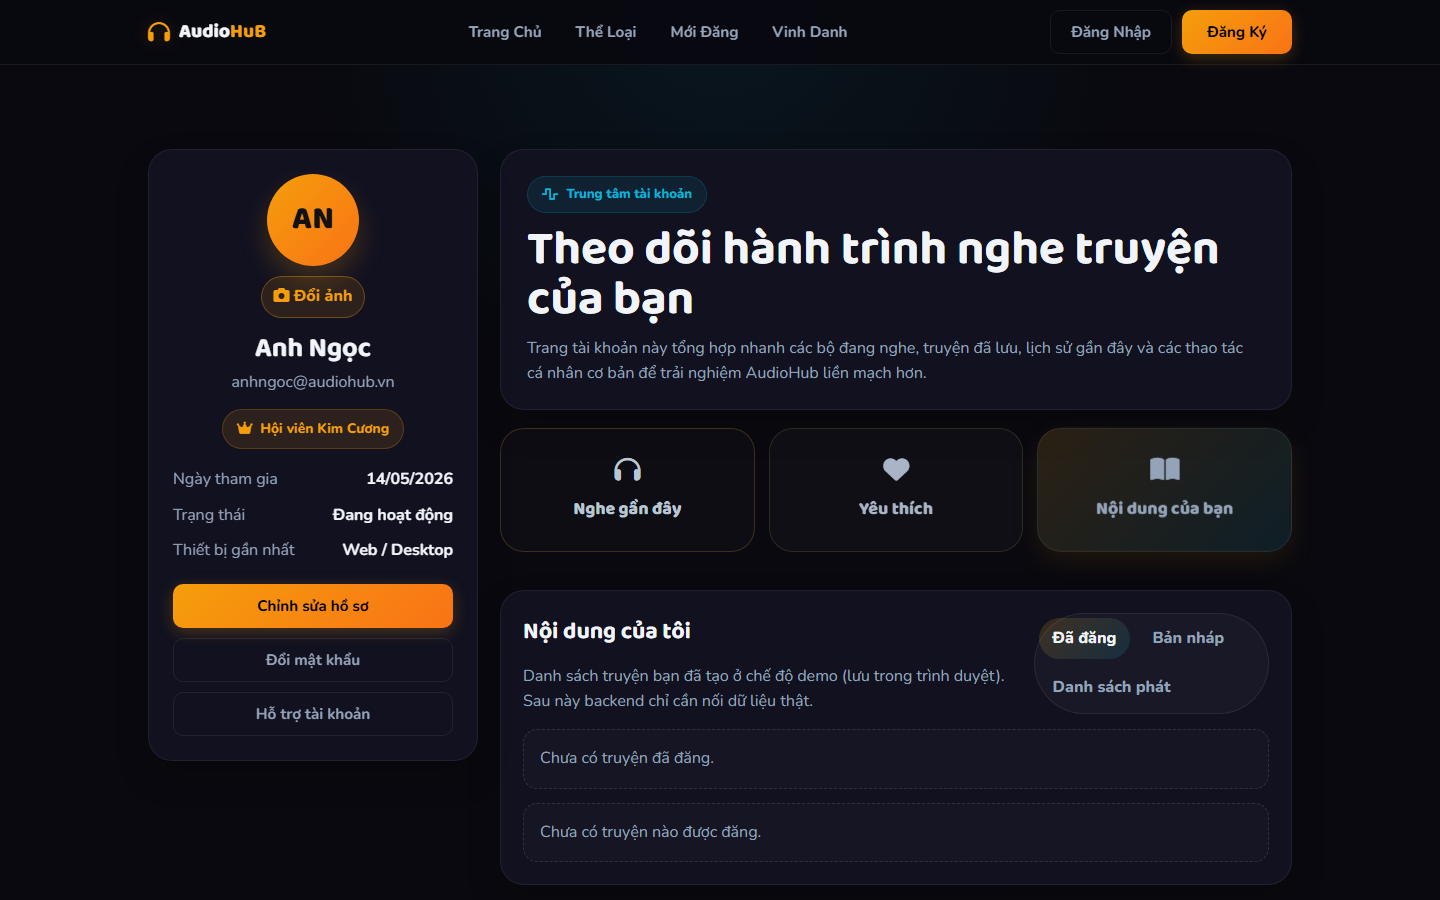
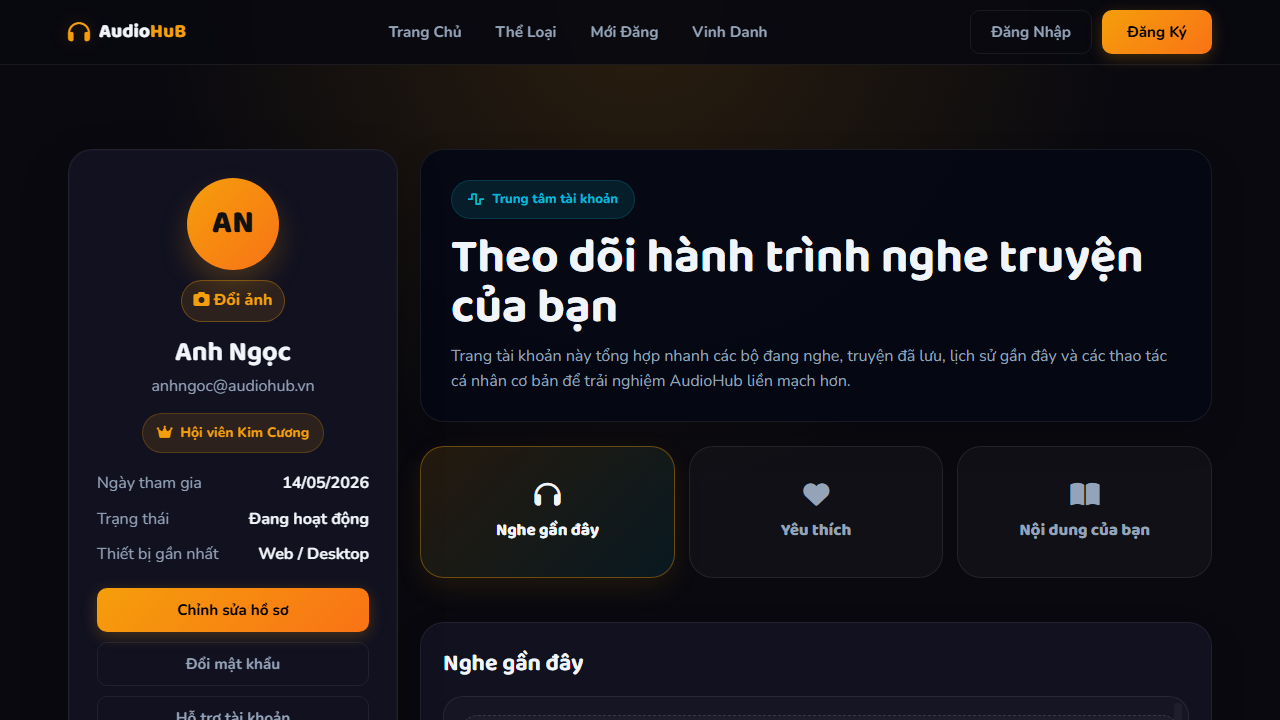
Fix account page: read stories from localStorage synced by API

diff --git a/test-account.js b/test-account.js
@@ -1,0 +1,47 @@
+const { chromium } = require('playwright');
+const path = require('path');
+const fs = require('fs');
+
+(async () => {
+  const browser = await chromium.launch();
+  const page = await browser.newPage();
+  
+  // Navigate to account page
+  const accountPath = path.join(__dirname, 'html', 'account.html');
+  const fileUrl = 'file:///' + accountPath.replace(/\/g, '/');
+  
+  console.log('Loading:', fileUrl);
+  await page.goto(fileUrl, { waitUntil: 'networkidle' });
+  
+  // Wait a bit for scripts to load
+  await page.waitForTimeout(2000);
+  
+  // Check if API is being called
+  const logs = [];
+  page.on('console', msg => logs.push(`[${msg.type()}] ${msg.text()}`));
+  
+  // Try to get stories from the page
+  const storiesCount = await page.evaluate(() => {
+    const items = document.querySelectorAll('[data-stories-published] li');
+    return items.length;
+  });
+  
+  console.log('Stories published count:', storiesCount);
+  
+  // Check what's in the published section
+  const publishedHTML = await page.evaluate(() => {
+    const section = document.querySelector('[data-stories-published]');
+    return section ? section.innerHTML.substring(0, 500) : 'NOT FOUND';
+  });
+  
+  console.log('Published section HTML:', publishedHTML);
+  
+  // Screenshot
+  await page.screenshot({ path: 'account-page.png' });
+  console.log('Screenshot saved: account-page.png');
+  
+  console.log('\n--- Console logs ---');
+  logs.forEach(log => console.log(log));
+  
+  await browser.close();
+})();

diff --git a/test-simple.js b/test-simple.js
@@ -1,0 +1,26 @@
+const { chromium } = require('playwright');
+const path = require('path');
+
+(async () => {
+  const browser = await chromium.launch();
+  const page = await browser.newPage();
+
+  const accountPath = path.join(__dirname, 'html', 'account.html');
+  const fileUrl = 'file:///' + accountPath.split(path.sep).join('/');
+
+  console.log('Loading:', fileUrl);
+  await page.goto(fileUrl, { waitUntil: 'networkidle' });
+  await page.waitForTimeout(2000);
+
+  const storiesCount = await page.evaluate(() => {
+    const items = document.querySelectorAll('[data-stories-published] li');
+    return items.length;
+  });
+
+  console.log('Stories count:', storiesCount);
+
+  await page.screenshot({ path: 'account-page.png' });
+  console.log('Screenshot saved');
+
+  await browser.close();
+})();

diff --git a/js/stories-account.js b/js/stories-account.js
@@ -1412,6 +1412,13 @@
   setContentPanel('published');
 
   window.addEventListener('audiohub:stories-updated', refreshAll);
+  window.addEventListener('audiohub:stories-synced', refreshAll);
+
+  // Force sync from API when page loads
+  if (window.AudioHubStories && typeof window.AudioHubStories.sync === 'function') {
+    window.AudioHubStories.sync();
+  }
+
   window.addEventListener('storage', function (event) {
     if (!event || !event.key) return;
     if (event.key === 'audiohub-library' || event.key === AVATAR_STORAGE_KEY || event.key === PLAYLIST_STORAGE_KEY) {
